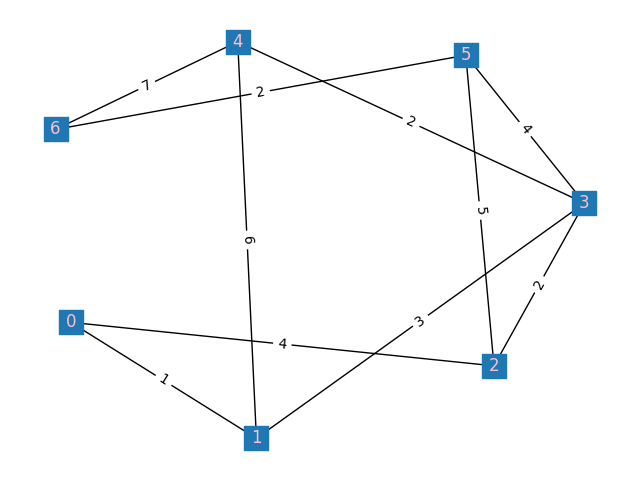
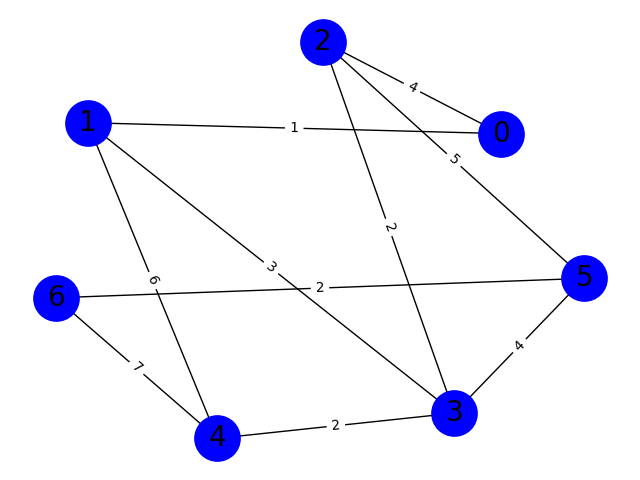
graphs

diff --git a/net.py b/net.py
@@ -1,5 +1,6 @@
 import networkx
 import matplotlib.pyplot as plt
+import matplotlib.image as mpimg
 
 G = networkx.Graph()
 
@@ -8,9 +9,18 @@ for line in f:
   line = line.split('-')
   G.add_edge(int(line[0]), int(line[1]), weight=int(line[2]))
 
-pos = networkx.spring_layout(G, k=10)
+pos = networkx.spring_layout(G, k=100)
 weight_labels = networkx.get_edge_attributes(G,'weight')
-networkx.draw(G, pos, font_color = 'pink', node_shape = 's',with_labels=True)
+options = {
+  "font_size": 20,
+  "node_size": 1000,
+  "node_color": "blue",
+  "edge_color": "black",
+  "linewidths": 2,
+  "node_shape": 'o',
+  "width": 1,
+}
+networkx.draw(G, pos, **options,with_labels=True)
 
 networkx.draw_networkx_edge_labels(G,pos,edge_labels=weight_labels)
 plt.savefig("pic/mg.png")
@@ -22,14 +32,24 @@ f = open('txt/mst')
 for line in f:
   line = line.split('-')
   G.add_edge(int(line[0]), int(line[1]), weight=int(line[2]))
-
-
-pos = networkx.spring_layout(G, k=10)
-weight_labels = networkx.get_edge_attributes(G,'weight')
-networkx.draw(G, pos, font_color = 'pink', node_shape = 's',with_labels=True)
-
-networkx.draw_networkx_edge_labels(G,pos,edge_labels=weight_labels)
-plt.savefig("pic/mst.png")
-plt.show()
+  pos = networkx.spring_layout(G, k=100)
+  weight_labels = networkx.get_edge_attributes(G,'weight')
+  options = {
+    "font_size": 20,
+    "node_size": 1000,
+    "node_color": "blue",
+    "edge_color": "black",
+    "linewidths": 2,
+    "node_shape": 'o',
+    "width": 1,
+  }
+  networkx.draw(G, pos, **options,with_labels=True)
+  networkx.draw_networkx_edge_labels(G,pos,edge_labels=weight_labels)
+  plt.savefig("pic/mst.png")
+  plt.show(block=False)
+  plt.pause(3)
+  plt.close()
+image = mpimg.imread("pic/mst.png")
+plt.imshow(image)
 G.clear()
 f.close()
